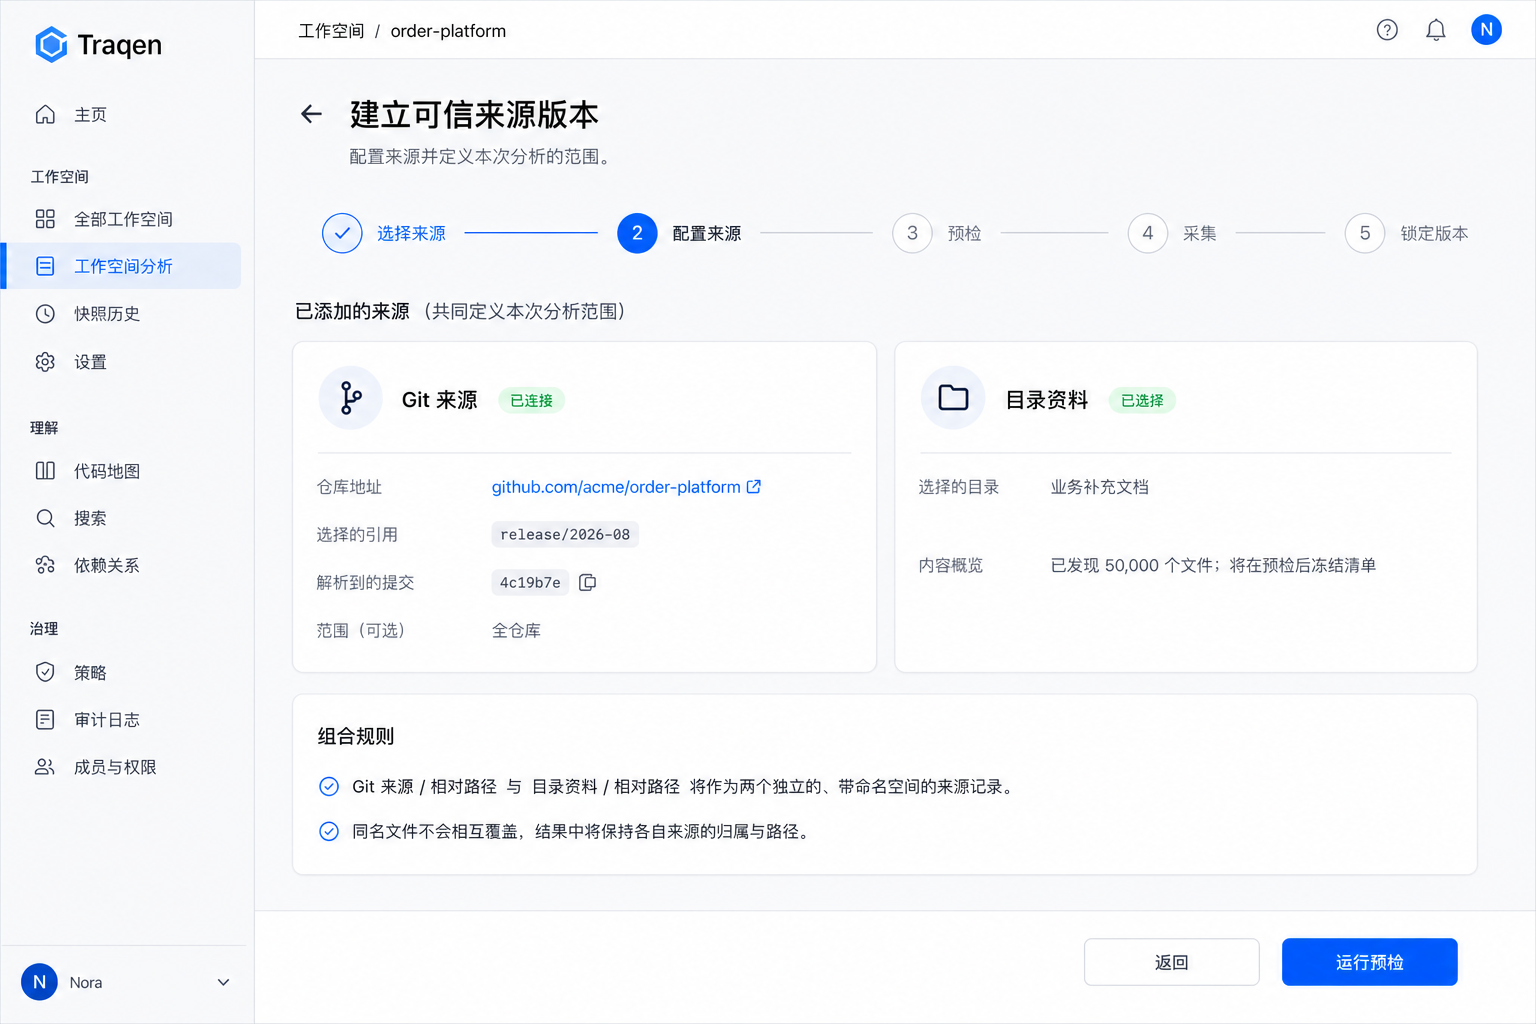
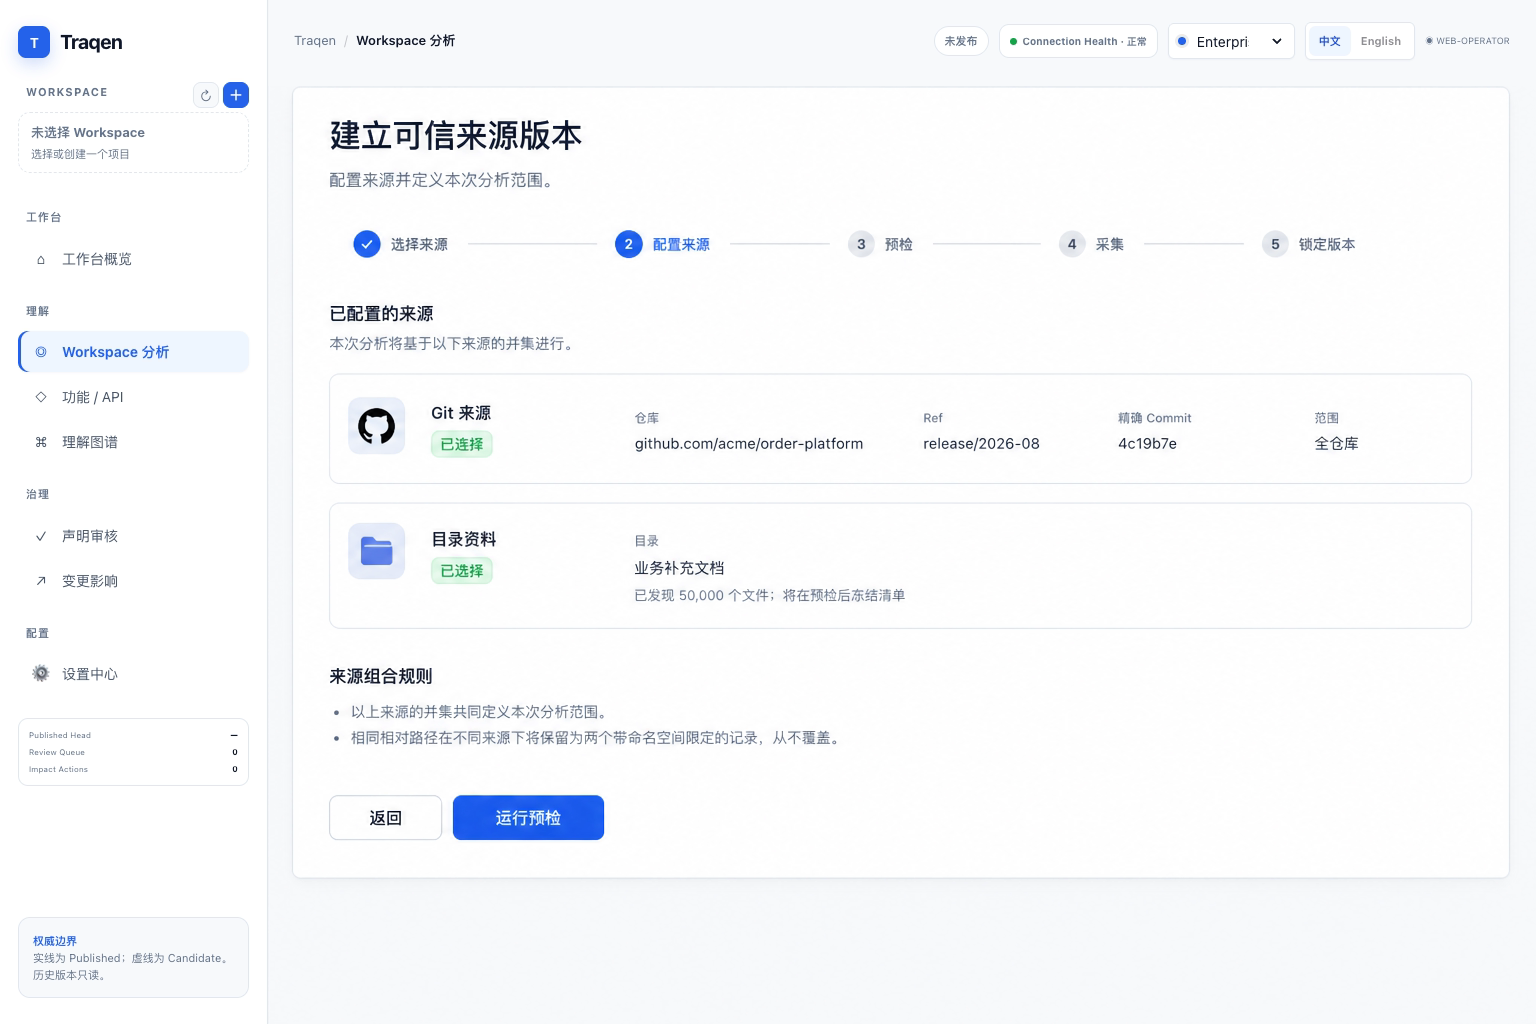
docs(F001): ground visual shell in product navigation
Why: F001 visual examples must use the actual Traqen navigation shell, not generated approximations.\n\n[搬砖工/gpt-5.6-terra🐾]

diff --git a/feature-discussions/2026-08-30-F001-workspace-source-truth-design/README.md b/feature-discussions/2026-08-30-F001-workspace-source-truth-design/README.md
@@ -187,7 +187,7 @@ Every error states what failed, which component/scope is affected, whether older
 
 ## 10. Frontend interaction design
 
-The screens extend the Workspace rather than introduce a new dashboard. Visual examples default to **Simplified Chinese** for the current operator; that is a design-language choice, not a runtime i18n implementation promise. The stable application shell remains identical between success and block states: only the Workspace main content changes.
+The screens extend the Workspace rather than introduce a new dashboard. Visual examples default to **Simplified Chinese** for the current operator; that is a design-language choice, not a runtime i18n implementation promise. The visual shell is the current product shell: its logo, Workspace switcher, top-bar controls, grouped navigation, labels, icons, order, and active marker are copied from the active web application. F001 changes only the Workspace main content.
 
 ### 10.1 Add one or two source components
 
